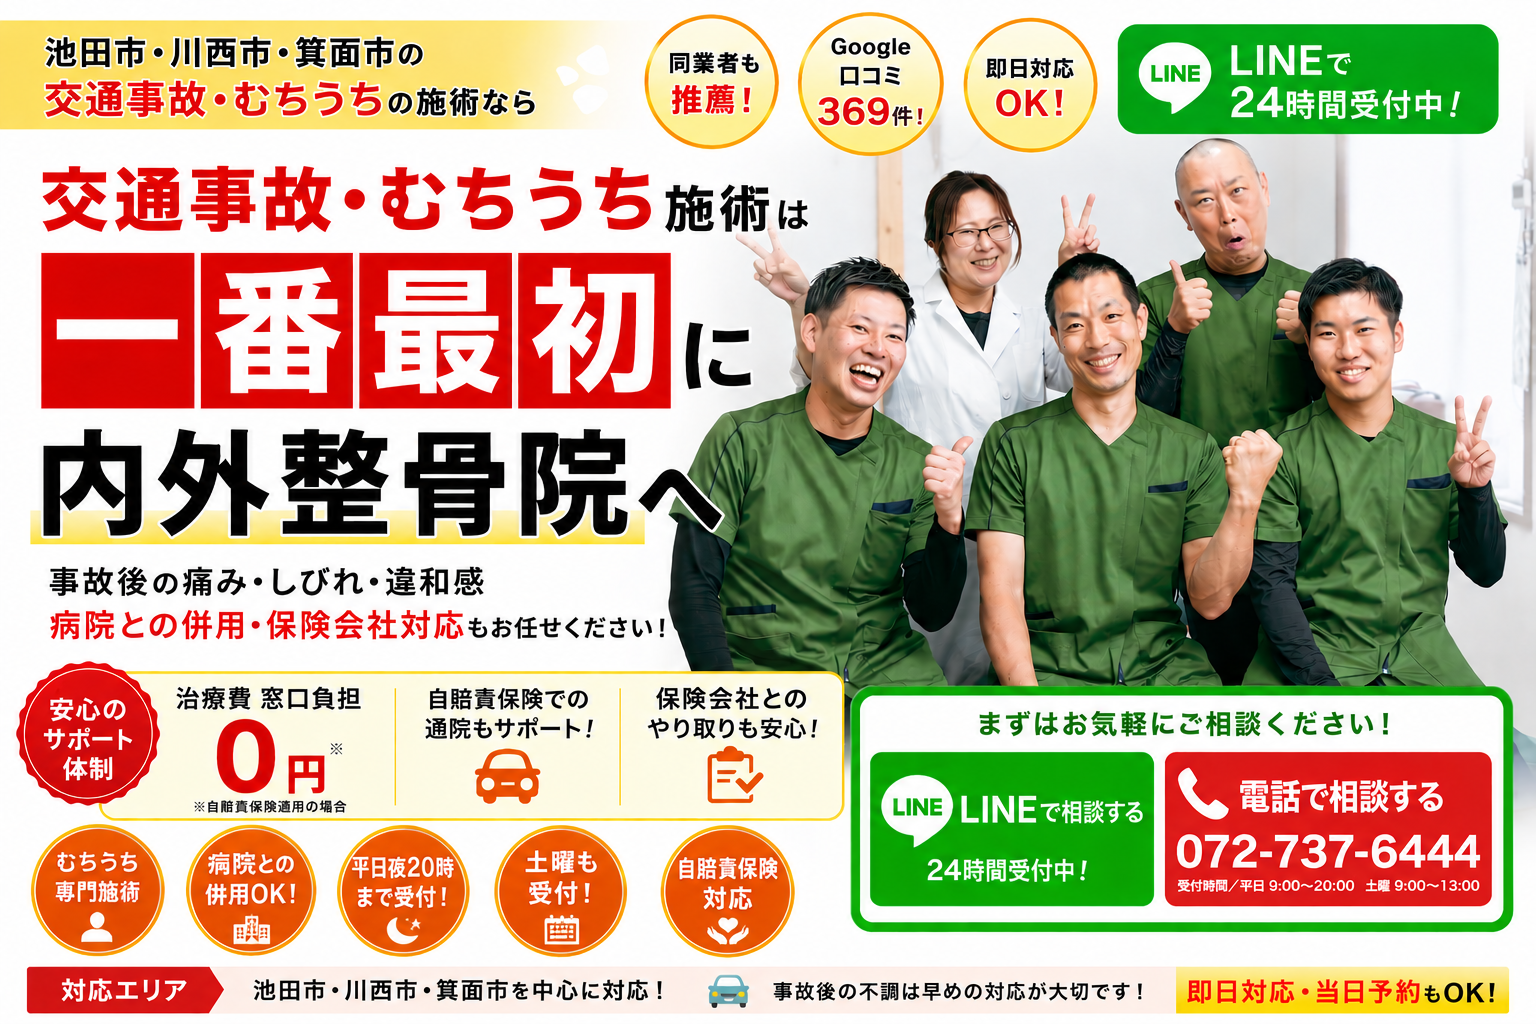
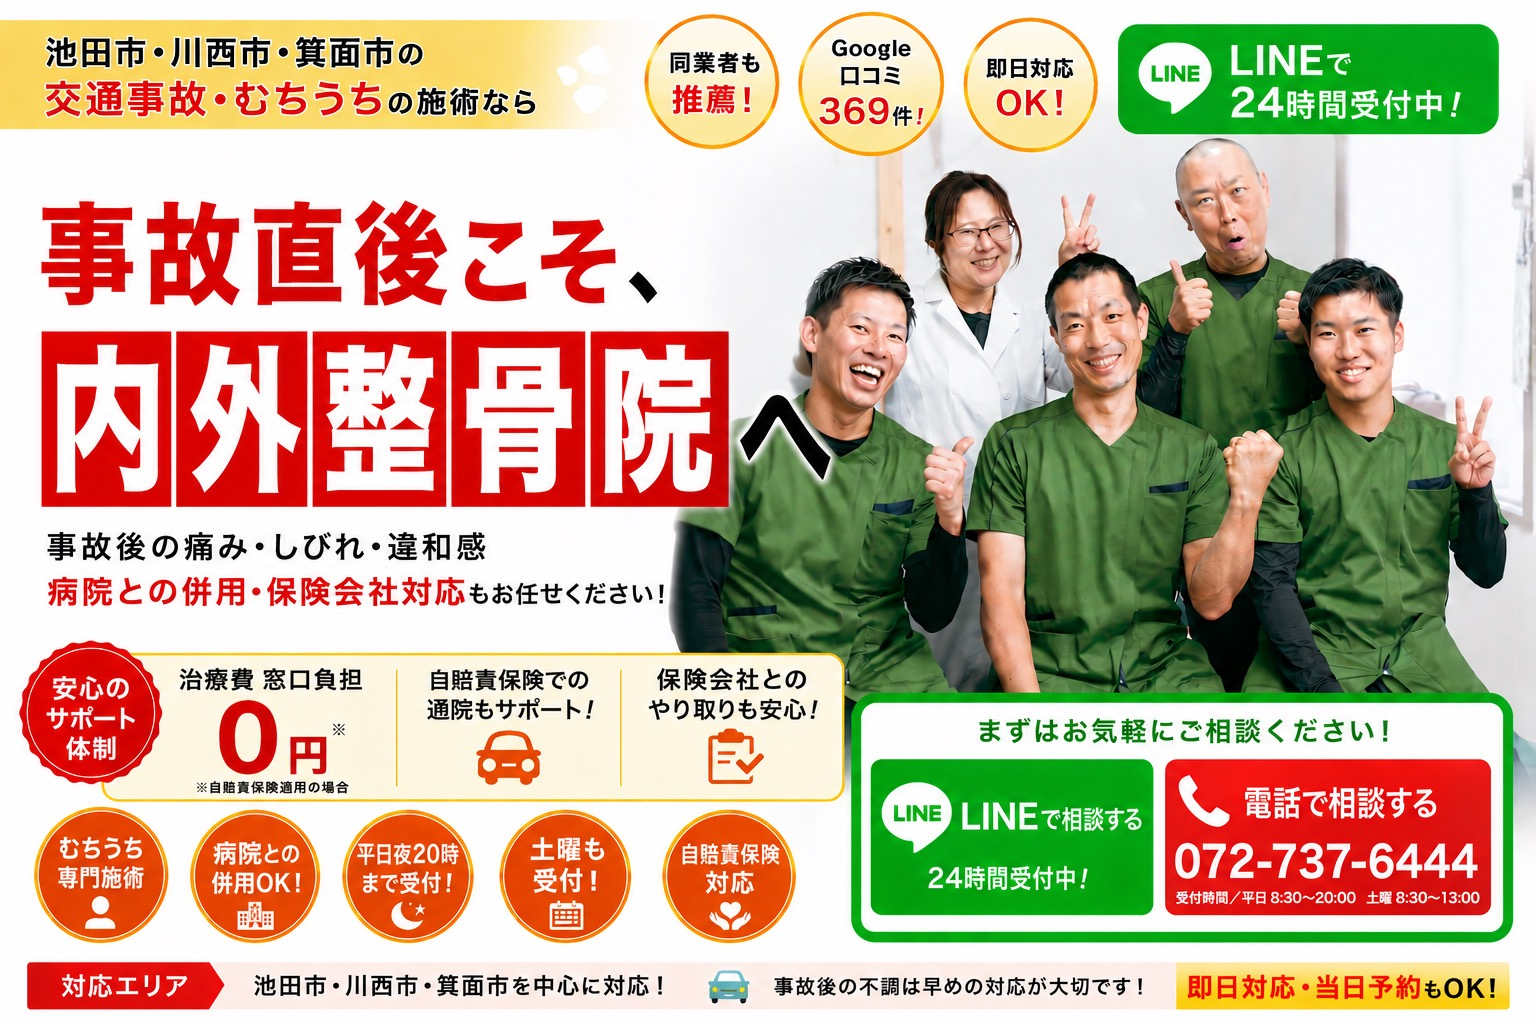
FV画像差し替え・診療時間更新・エキテンウィジェット化
- FV画像をPC/SP版とも新デザインに差し替え（薬機法対応の新見出し）
- FV画像のalt属性を「事故直後こそ、内外整骨院へ」に修正
- 診療時間を新FV準拠に統一（土曜8:30〜13:00、受付平日8:30〜20:00）
- エキテン口コミを先方希望によりウィジェット形式に変更（抜粋から戻す）

diff --git a/index_v2.html b/index_v2.html
@@ -427,7 +427,7 @@ footer a:hover{color:#f0540c}
     <div class="hd-contact">
       <div class="hd-tel-block">
         <div class="tel">072-737-6444</div>
-        <div class="hours">平日 8:30〜20:00 ／ 土 〜17:00</div>
+        <div class="hours">平日 8:30〜20:00 ／ 土 〜13:00</div>
       </div>
       <a href="https://lin.ee/XvH4JBN" target="_blank" rel="noopener" class="hd-btn-line">LINE予約</a>
       <a href="tel:0727376444" class="hd-btn-tel">☎ 電話</a>
@@ -440,7 +440,7 @@ footer a:hover{color:#f0540c}
   <div class="visual-img">
     <picture>
       <source media="(max-width:599px)" srcset="fv_sp.jpg">
-      <img src="fv.jpg" alt="交通事故・むちうち施術は一番最初に内外整骨院へ">
+      <img src="fv.jpg" alt="事故直後こそ、内外整骨院へ">
     </picture>
   </div>
 </div>
@@ -496,7 +496,7 @@ footer a:hover{color:#f0540c}
 <div class="tel-cta">
   <p class="ttl">交通事故に遭われたら、まずご連絡ください ／ 当日予約も受付中</p>
   <a href="tel:0727376444" class="num">072-737-6444</a>
-  <p class="hours">受付時間：平日 8:30〜19:30 ／ 土曜 8:30〜17:00 ／ 木・日 休診</p>
+  <p class="hours">受付時間：平日 8:30〜20:00 ／ 土曜 8:30〜13:00 ／ 木・日 休診</p>
   <a href="https://lin.ee/XvH4JBN" target="_blank" rel="noopener" class="line-link">＼ LINEで24時間 無料相談・予約する</a>
 </div>
 
@@ -565,12 +565,9 @@ footer a:hover{color:#f0540c}
           <span class="ekiten-arrow">口コミをすべて見る →</span>
         </a>
       </div>
-      <div class="review-list">
-        <div class="review-card"><div class="review-meta"><span class="r-stars">★★★★★</span><span class="r-name">ＮＤ 様</span></div><p>友人のおすすめで通い始めました。足も腰も肩も首も、とにかく全身が痛くて辛かったのですが、コチラに通い始めて少しずつ楽になってきました！今まで整体、カイロ、鍼灸等色んなところに行きましたが、今は内外さん以外は考えられません。</p></div>
-        <div class="review-card"><div class="review-meta"><span class="r-stars">★★★★★</span><span class="r-name">おもち 様</span></div><p>急に肩に痛みが出るようになり、はじめは整形外科に行きましたが、湿布を出されるだけで痛みは良くならず。根本治療をしてくださることと、しっかりと説明をしてくださるので、施術に納得感があります。今では肩の痛みについてはほとんどなくなり、快適に過ごせています。</p></div>
-        <div class="review-card"><div class="review-meta"><span class="r-stars">★★★★★</span><span class="r-name">etema396 様</span></div><p>ずっと色んなところが痛かったけど、病院に行っても異常なし、湿布や痛み止めをもらってました。薬ものんでもあまり変わらなかったのですが、家の近くに出来たので、正直ダメ元で行ってみました。何されてるのかよく分からないまま身体が軽くなっていくのを感じで感動しました！</p></div>
+      <div class="ekiten-widget-slot">
+        <div class="ekiten-gadget" data-gadget-type="review_panel" data-shop-id="69795969" style="display: none"></div><script src="https://static.ekiten.jp/js/gadget.js" async="async" defer="defer" charset="UTF-8"></script>
       </div>
-      <div class="google-btn"><a href="https://www.ekiten.jp/shop_69795969/review/" target="_blank" rel="noopener">エキテンで口コミをすべて見る →</a></div>
     </div>
     <p class="reviews-disclaimer" style="font-size:12px;color:#888;text-align:center;margin-top:20px;">※掲載のお声は個人の感想であり、効果・改善には個人差があります。</p>
   </div>
@@ -989,14 +986,14 @@ footer a:hover{color:#f0540c}
           <span class="d">水</span><span class="t">8:30〜20:00</span>
           <span class="d">木</span><span class="t closed">休診</span>
           <span class="d">金</span><span class="t">8:30〜20:00</span>
-          <span class="d">土</span><span class="t">8:30〜17:00</span>
+          <span class="d">土</span><span class="t">8:30〜13:00</span>
           <span class="d">日</span><span class="t closed">休診</span>
         </div>
       </div>
       <div class="access-col">
         <h3>ご予約・お問い合わせ</h3>
         <div class="access-tel">072-737-6444</div>
-        <div class="access-hours">受付 平日 8:30〜19:30</div>
+        <div class="access-hours">受付 平日 8:30〜20:00</div>
         <a href="https://lin.ee/XvH4JBN" target="_blank" rel="noopener" class="a-line-btn">LINEで相談・予約（24時間）</a>
         <a href="tel:0727376444" class="a-tel-btn">☎ 電話で予約する</a>
       </div>
